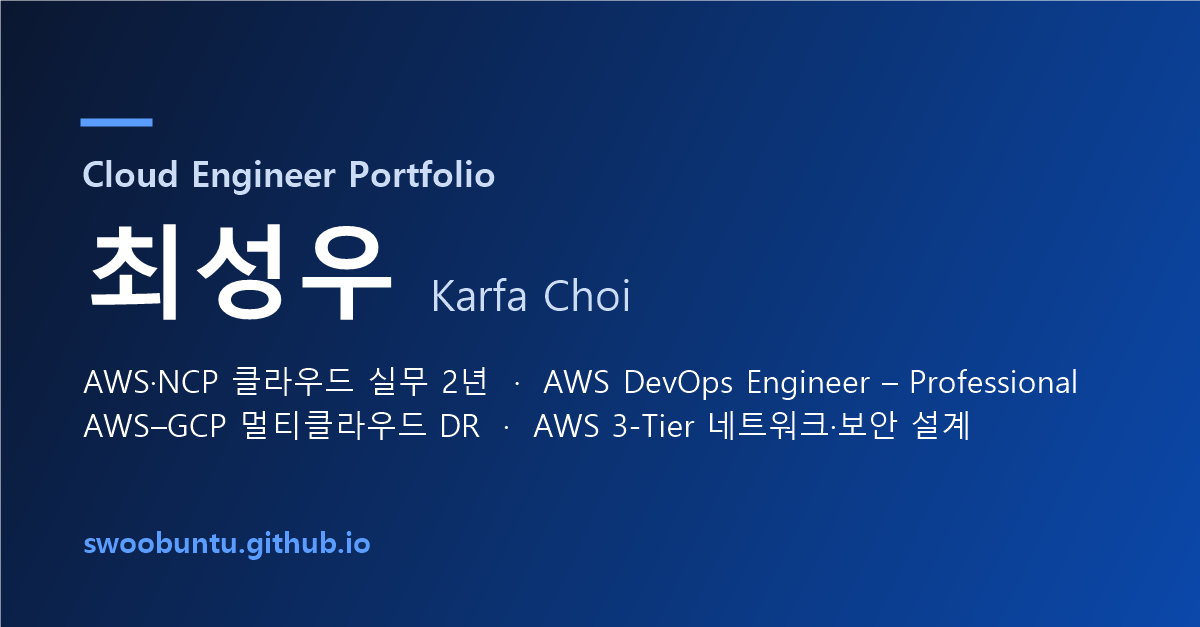
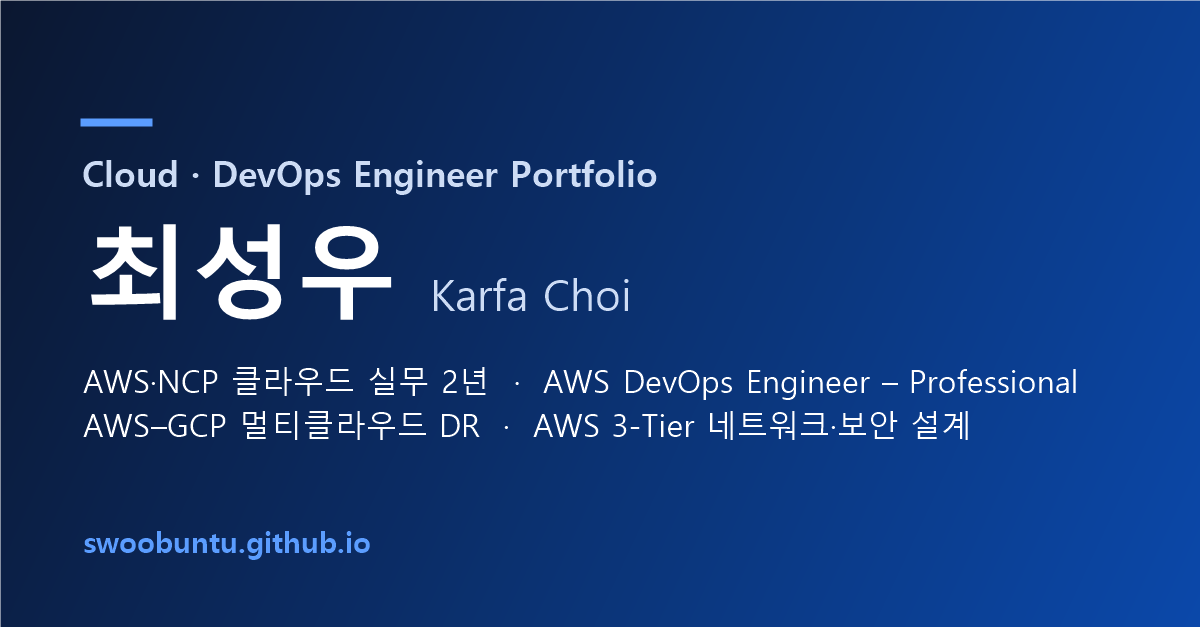
feat: 첫 화면·로고·이력 타임라인·스크롤 효과로 디자인 개선
- 소개 문구를 클라우드 · DevOps 엔지니어 구직 중심으로 변경
- 첫 화면: 그라데이션 배경, 이니셜 아바타(profile.jpg를 넣으면 사진으로 교체), 구직 상태 배지
- 기술 · 자격증에 devicon 로고 아이콘 추가
- 경력 · 학력을 자격증 · 프로젝트와 함께 시간순 이력 타임라인으로 통합
- 스크롤 등장 효과와 카드 호버 효과 (모션 줄이기 설정 시 비활성)
- 날짜를 문자열로 지정해 2026.10이 2026.1로 표시되던 문제 수정
- 링크 미리보기 이미지 문구를 Cloud · DevOps Engineer로 갱신

Changed region(s): [[0.1542, 0.2424, 0.555, 0.303]]

diff --git a/assets/css/main.css b/assets/css/main.css
@@ -13,6 +13,11 @@
   --chip-bg: #eef2f7;
   --chip-text: #1f2937;
   --shadow: 0 1px 2px rgba(17, 24, 39, .04), 0 4px 16px rgba(17, 24, 39, .06);
+  --hero-top: #eef4ff;
+  --hero-glow-1: rgba(11, 92, 213, .16);
+  --hero-glow-2: rgba(109, 93, 252, .12);
+  --grid-dot: rgba(11, 92, 213, .18);
+  --avatar-ring: rgba(11, 92, 213, .08);
   --radius: 14px;
   --wrap: 1040px;
   --narrow: 760px;
@@ -33,6 +38,11 @@
     --chip-bg: #1c2533;
     --chip-text: #d5dde7;
     --shadow: 0 1px 2px rgba(0, 0, 0, .3), 0 4px 16px rgba(0, 0, 0, .25);
+    --hero-top: #0f1830;
+    --hero-glow-1: rgba(91, 157, 255, .20);
+    --hero-glow-2: rgba(140, 120, 255, .14);
+    --grid-dot: rgba(140, 186, 255, .14);
+    --avatar-ring: rgba(91, 157, 255, .10);
   }
 }
 
@@ -79,9 +89,45 @@ img { max-width: 100%; height: auto; }
 .footer-links { display: flex; gap: 16px; flex-wrap: wrap; }
 
 /* ── 히어로 ─────────────────────────────────────────────── */
-.hero { padding: 88px 0 64px; }
+.hero { position: relative; isolation: isolate; overflow: hidden; padding: 96px 0 72px; }
+.hero-bg {
+  position: absolute; inset: 0; z-index: -1;
+  background:
+    radial-gradient(60% 80% at 85% 10%, var(--hero-glow-1), transparent 70%),
+    radial-gradient(50% 70% at 5% 100%, var(--hero-glow-2), transparent 70%),
+    linear-gradient(180deg, var(--hero-top), var(--bg));
+}
+.hero-bg::after {
+  content: ""; position: absolute; inset: 0;
+  background-image: radial-gradient(var(--grid-dot) 1px, transparent 1px);
+  background-size: 22px 22px;
+  mask-image: linear-gradient(180deg, rgba(0,0,0,.55), transparent 85%);
+  -webkit-mask-image: linear-gradient(180deg, rgba(0,0,0,.55), transparent 85%);
+}
+.hero-inner { display: grid; grid-template-columns: 1fr auto; gap: 48px; align-items: center; }
+.hero-avatar {
+  width: 220px; height: 220px; border-radius: 50%;
+  display: grid; place-items: center; overflow: hidden;
+  background: linear-gradient(135deg, var(--accent), #6d5dfc);
+  box-shadow: 0 20px 50px -18px rgba(11, 92, 213, .55), 0 0 0 8px var(--avatar-ring);
+}
+.hero-avatar span { color: #fff; font-size: 4.2rem; font-weight: 800; letter-spacing: -.02em; }
+.hero-avatar img { width: 100%; height: 100%; object-fit: cover; }
+.status-pill {
+  display: inline-flex; align-items: center; gap: 8px; margin: 0 0 18px;
+  padding: 6px 14px; border-radius: 999px; font-size: .88rem; font-weight: 600;
+  background: var(--surface); border: 1px solid var(--line); color: var(--text-2);
+  box-shadow: var(--shadow);
+}
+.status-pill .dot { width: 8px; height: 8px; border-radius: 50%; background: #22c55e; box-shadow: 0 0 0 0 rgba(34,197,94,.6); animation: pulse 2s infinite; }
+@keyframes pulse { 0% { box-shadow: 0 0 0 0 rgba(34,197,94,.55); } 70% { box-shadow: 0 0 0 8px rgba(34,197,94,0); } 100% { box-shadow: 0 0 0 0 rgba(34,197,94,0); } }
+.role {
+  margin: 8px 0 0; font-size: 1.25rem; font-weight: 700;
+  background: linear-gradient(90deg, var(--accent), #6d5dfc);
+  -webkit-background-clip: text; background-clip: text; color: transparent;
+}
 .eyebrow { color: var(--accent-text); font-weight: 600; font-size: .9rem; letter-spacing: .02em; margin: 0 0 10px; }
-.hero h1 { font-size: clamp(2rem, 5vw, 3rem); font-weight: 800; }
+.hero h1 { font-size: clamp(2.2rem, 5.5vw, 3.4rem); font-weight: 800; }
 .name-en { color: var(--muted); font-weight: 500; font-size: .55em; margin-left: 6px; }
 .lead { font-size: 1.15rem; color: var(--text-2); margin: 16px 0 0; max-width: 46em; }
 .facts { list-style: none; padding: 0; margin: 22px 0 0; display: flex; flex-wrap: wrap; gap: 8px; }
@@ -199,12 +245,83 @@ img { max-width: 100%; height: auto; }
 .prose img { display: block; margin: 18px auto; border: 1px solid var(--line); border-radius: 10px; background: #fff; }
 .prose .mermaid { background: var(--surface); border: 1px solid var(--line); border-radius: 10px; padding: 16px; overflow-x: auto; text-align: center; }
 
+/* ── 기술 로고 ──────────────────────────────────────────── */
+.skill-list { list-style: none; padding: 0; margin: 14px 0 0; display: flex; flex-direction: column; gap: 8px; }
+.skill-list li { display: flex; align-items: center; gap: 10px; font-weight: 500; font-size: .95rem; }
+.skill-list img, .icon-fallback {
+  width: 30px; height: 30px; padding: 4px; border-radius: 8px; flex: none;
+  background: #fff; border: 1px solid var(--line); object-fit: contain;
+}
+.icon-fallback { display: inline-block; background: var(--chip-bg); position: relative; }
+.icon-fallback::after {
+  content: ""; position: absolute; inset: 10px; border-radius: 3px; background: var(--muted); opacity: .45;
+}
+
+/* ── 자격증 로고 ────────────────────────────────────────── */
+.cert-logo {
+  width: 52px; height: 52px; border-radius: 12px; margin-bottom: 8px;
+  display: grid; place-items: center; background: #fff; border: 1px solid var(--line); color: var(--accent);
+}
+.cert-logo img { width: 38px; height: 38px; object-fit: contain; }
+
+/* ── 이력 타임라인 ──────────────────────────────────────── */
+.timeline { list-style: none; margin: 0; padding: 0 0 0 28px; position: relative; }
+.timeline::before {
+  content: ""; position: absolute; left: 8px; top: 6px; bottom: 6px; width: 2px;
+  background: linear-gradient(180deg, var(--accent), var(--line));
+}
+.tl { position: relative; margin-bottom: 18px; }
+.tl-dot {
+  position: absolute; left: -26px; top: 22px; width: 14px; height: 14px; border-radius: 50%;
+  background: var(--surface); border: 3px solid var(--accent);
+}
+.kind-work .tl-dot { border-color: #0b5cd5; background: #0b5cd5; }
+.kind-project .tl-dot { border-color: #6d5dfc; }
+.kind-cert .tl-dot { border-color: #f59e0b; }
+.kind-edu .tl-dot { border-color: var(--muted); }
+.tl-card {
+  background: var(--surface); border: 1px solid var(--line); border-radius: var(--radius); padding: 16px 20px;
+}
+.tl-card h3 { font-size: 1.05rem; margin-top: 4px; }
+.tl-card h3 a { color: var(--text); }
+.tl-card p { margin: 4px 0 0; }
+.tl-date { color: var(--muted); font-size: .88rem; font-variant-numeric: tabular-nums; display: flex; gap: 8px; align-items: center; flex-wrap: wrap; }
+.tl-kind {
+  font-size: .75rem; font-weight: 700; padding: 1px 8px; border-radius: 999px;
+  background: var(--chip-bg); color: var(--chip-text);
+}
+.kind-work .tl-kind { background: var(--accent-soft); color: var(--accent-text); }
+.kind-project .tl-kind { background: rgba(109, 93, 252, .14); color: #6d5dfc; }
+.kind-cert .tl-kind { background: rgba(245, 158, 11, .16); color: #b45309; }
+
+/* ── 호버 · 등장 효과 ───────────────────────────────────── */
+.lift { transition: transform .25s ease, box-shadow .25s ease, border-color .25s ease; }
+.lift:hover { transform: translateY(-4px); box-shadow: 0 14px 34px -14px rgba(11, 92, 213, .35); border-color: color-mix(in srgb, var(--accent) 40%, var(--line)); }
+.btn { transition: transform .15s ease, filter .15s ease, border-color .15s ease; }
+.btn:hover { transform: translateY(-1px); }
+
+.js .reveal { opacity: 0; transform: translateY(18px); transition: opacity .6s ease, transform .6s ease; }
+.js .reveal.is-visible { opacity: 1; transform: none; }
+
+@media (prefers-reduced-motion: reduce) {
+  html { scroll-behavior: auto; }
+  .js .reveal { opacity: 1; transform: none; transition: none; }
+  .lift, .btn { transition: none; }
+  .lift:hover, .btn:hover { transform: none; }
+  .status-pill .dot { animation: none; }
+}
+
 /* ── 모바일 ─────────────────────────────────────────────── */
+@media (max-width: 820px) {
+  .hero-inner { grid-template-columns: 1fr; gap: 28px; }
+  .hero-avatar { order: -1; width: 120px; height: 120px; box-shadow: 0 12px 30px -14px rgba(11, 92, 213, .55), 0 0 0 6px var(--avatar-ring); }
+  .hero-avatar span { font-size: 2.4rem; }
+}
 @media (max-width: 720px) {
   .site-header nav { gap: 12px; }
   .site-header nav a { font-size: .85rem; }
   .brand span { display: none; }
-  .hero { padding: 56px 0 44px; }
+  .hero { padding: 48px 0 44px; }
   .section { padding: 48px 0; }
   .project-card { padding: 20px; }
 }

diff --git a/layouts/index.html b/layouts/index.html
@@ -1,26 +1,38 @@
 {{ define "main" }}
 {{- $p := hugo.Data.profile -}}
+{{- $icons := "https://cdn.jsdelivr.net/gh/devicons/devicon@v2.16.0/icons/" -}}
 
 <section class="hero">
-  <div class="wrap">
-    <p class="eyebrow">{{ $p.role }}</p>
-    <h1>{{ $p.name }} <span class="name-en">{{ $p.name_en }}</span></h1>
-    <p class="lead">{{ $p.tagline }}</p>
-    <ul class="facts">
-      {{ range $p.facts }}<li>{{ . }}</li>{{ end }}
-    </ul>
-    <div class="cta">
-      {{ range $p.links }}<a class="btn {{ if .primary }}btn-primary{{ end }}" href="{{ .url }}" rel="noopener">{{ .label }}</a>{{ end }}
+  <div class="hero-bg" aria-hidden="true"></div>
+  <div class="wrap hero-inner">
+    <div class="hero-text">
+      <p class="status-pill reveal"><span class="dot"></span>{{ $p.status }}</p>
+      <h1 class="reveal">{{ $p.name }} <span class="name-en">{{ $p.name_en }}</span></h1>
+      <p class="role reveal">{{ $p.role }}</p>
+      <p class="lead reveal">{{ $p.tagline }}</p>
+      <ul class="facts reveal">
+        {{ range $p.facts }}<li>{{ . }}</li>{{ end }}
+      </ul>
+      <div class="cta reveal">
+        {{ range $p.links }}<a class="btn {{ if .primary }}btn-primary{{ end }}" href="{{ .url }}" rel="noopener">{{ .label }}</a>{{ end }}
+      </div>
+    </div>
+    <div class="hero-avatar reveal" aria-hidden="true">
+      {{ if fileExists "static/images/profile.jpg" }}
+        <img src="{{ "images/profile.jpg" | relURL }}" alt="" width="220" height="220">
+      {{ else }}
+        <span>{{ $p.initials }}</span>
+      {{ end }}
     </div>
   </div>
 </section>
 
 <section id="projects" class="section">
   <div class="wrap">
-    <h2 class="section-title">프로젝트</h2>
+    <h2 class="section-title reveal">프로젝트</h2>
     <div class="project-grid">
       {{ range hugo.Data.projects }}
-      <article class="project-card">
+      <article class="project-card lift reveal">
         <p class="card-meta">{{ .period }} · {{ .team }}</p>
         <h3><a href="{{ .page | relURL }}">{{ .title }}</a></h3>
         <p class="card-role">{{ .role }}</p>
@@ -41,33 +53,41 @@
   </div>
 </section>
 
-<section id="experience" class="section alt">
+<section id="timeline" class="section alt">
   <div class="wrap">
-    <h2 class="section-title">경력</h2>
-    {{ range hugo.Data.experience }}
-    <div class="timeline-item">
-      <div class="tl-head">
-        <h3>{{ .company }}</h3>
-        <span class="tl-period">{{ .period }}</span>
-      </div>
-      <p class="card-role">{{ .title }} · {{ .type }}</p>
-      <ul class="bullets">
-        {{ range .bullets }}<li>{{ . }}</li>{{ end }}
-      </ul>
-    </div>
-    {{ end }}
+    <h2 class="section-title reveal">이력</h2>
+    <ol class="timeline">
+      {{ range hugo.Data.timeline }}
+      <li class="tl kind-{{ .kind }} reveal">
+        <span class="tl-dot" aria-hidden="true"></span>
+        <div class="tl-card lift">
+          <p class="tl-date">{{ .date }}
+            <span class="tl-kind">{{ index (dict "work" "경력" "project" "프로젝트" "cert" "자격증" "edu" "학력") .kind }}</span>
+          </p>
+          <h3>{{ with .link }}<a href="{{ . | relURL }}">{{ end }}{{ .title }}{{ with .link }}</a>{{ end }}</h3>
+          {{ with .detail }}<p class="muted">{{ . }}</p>{{ end }}
+          {{ with .bullets }}<ul class="bullets">{{ range . }}<li>{{ . }}</li>{{ end }}</ul>{{ end }}
+        </div>
+      </li>
+      {{ end }}
+    </ol>
   </div>
 </section>
 
 <section id="skills" class="section">
   <div class="wrap">
-    <h2 class="section-title">기술</h2>
+    <h2 class="section-title reveal">기술</h2>
     <div class="skill-grid">
       {{ range hugo.Data.skills }}
-      <div class="skill-group">
+      <div class="skill-group lift reveal">
         <h3>{{ .category }}</h3>
-        <ul class="chips">
-          {{ range .items }}<li>{{ . }}</li>{{ end }}
+        <ul class="skill-list">
+          {{ range .items }}
+          <li>
+            {{ with .icon }}<img src="{{ $icons }}{{ . }}" alt="" width="22" height="22" loading="lazy">{{ else }}<span class="icon-fallback" aria-hidden="true"></span>{{ end }}
+            {{ .name }}
+          </li>
+          {{ end }}
         </ul>
       </div>
       {{ end }}
@@ -77,10 +97,14 @@
 
 <section id="certifications" class="section alt">
   <div class="wrap">
-    <h2 class="section-title">자격증 · 수료</h2>
+    <h2 class="section-title reveal">자격증 · 수료</h2>
     <div class="cert-grid">
       {{ range hugo.Data.certifications }}
-      <div class="cert-card">
+      <div class="cert-card lift reveal">
+        <div class="cert-logo">
+          {{ with .icon }}<img src="{{ $icons }}{{ . }}" alt="" width="40" height="40" loading="lazy">
+          {{ else }}<svg viewBox="0 0 24 24" width="28" height="28" aria-hidden="true"><path fill="currentColor" d="M12 3 1 9l11 6 9-4.91V17h2V9L12 3zm-6.82 9.4v4.1L12 20l6.82-3.5v-4.1L12 16l-6.82-3.6z"/></svg>{{ end }}
+        </div>
         <p class="cert-issuer">{{ .issuer }}</p>
         <h3>{{ .name }}</h3>
         <p class="muted small">
@@ -90,21 +114,6 @@
       </div>
       {{ end }}
     </div>
-  </div>
-</section>
-
-<section id="education" class="section">
-  <div class="wrap">
-    <h2 class="section-title">학력</h2>
-    {{ range hugo.Data.education }}
-    <div class="timeline-item">
-      <div class="tl-head">
-        <h3>{{ .school }}</h3>
-        <span class="tl-period">{{ .period }}</span>
-      </div>
-      <p class="card-role">{{ .degree }}</p>
-    </div>
-    {{ end }}
   </div>
 </section>
 {{ end }}

diff --git a/layouts/_default/baseof.html b/layouts/_default/baseof.html
@@ -9,6 +9,21 @@
     {{ block "main" . }}{{ end }}
   </main>
   {{ partial "footer.html" . }}
+  <script>
+    (function () {
+      var els = document.querySelectorAll(".reveal");
+      if (!("IntersectionObserver" in window)) {
+        els.forEach(function (el) { el.classList.add("is-visible"); });
+        return;
+      }
+      var io = new IntersectionObserver(function (entries) {
+        entries.forEach(function (e) {
+          if (e.isIntersecting) { e.target.classList.add("is-visible"); io.unobserve(e.target); }
+        });
+      }, { rootMargin: "0px 0px -8% 0px", threshold: 0.08 });
+      els.forEach(function (el) { io.observe(el); });
+    })();
+  </script>
   {{ if .Store.Get "hasMermaid" }}
   <script type="module">
     import mermaid from "https://cdn.jsdelivr.net/npm/mermaid@10.9.1/dist/mermaid.esm.min.mjs";

diff --git a/layouts/partials/header.html b/layouts/partials/header.html
@@ -1,9 +1,9 @@
 <header class="site-header">
   <div class="wrap header-inner">
-    <a class="brand" href="{{ "/" | relURL }}">최성우<span> · Cloud Engineer</span></a>
+    <a class="brand" href="{{ "/" | relURL }}">최성우<span> · Cloud · DevOps Engineer</span></a>
     <nav aria-label="주요 메뉴">
       <a href="{{ "/#projects" | relURL }}">프로젝트</a>
-      <a href="{{ "/#experience" | relURL }}">경력</a>
+      <a href="{{ "/#timeline" | relURL }}">이력</a>
       <a href="{{ "/#skills" | relURL }}">기술</a>
       <a href="{{ "/#certifications" | relURL }}">자격증</a>
     </nav>

diff --git a/layouts/partials/head.html b/layouts/partials/head.html
@@ -2,6 +2,7 @@
 {{- $desc := .Description | default .Params.summary | default site.Params.description -}}
 {{- $og := site.Params.ogImage | absURL -}}
 <meta charset="utf-8">
+<script>document.documentElement.classList.add("js")</script>
 <meta name="viewport" content="width=device-width, initial-scale=1">
 <title>{{ $title }}</title>
 <meta name="description" content="{{ $desc }}">
